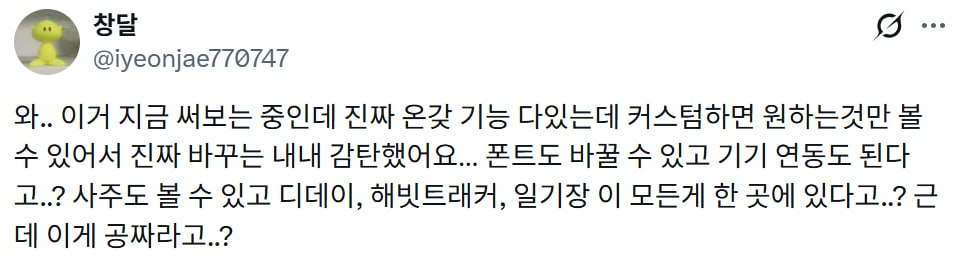
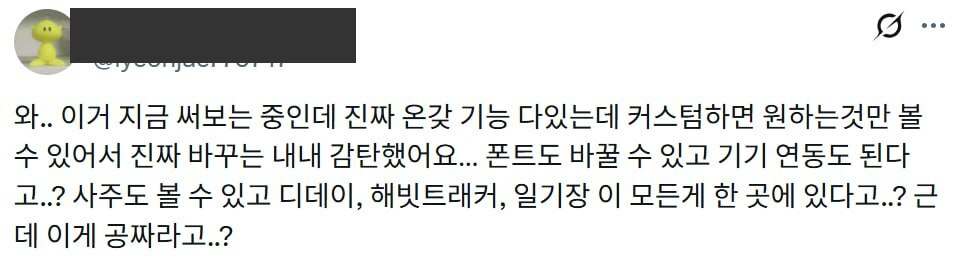
사용자 후기 이미지 닉네임·아이디 영역 이미지 자체 마스킹 (magick draw rectangle) — CSS overlay 잘못된 위치 문제 해결, 이제 영구 마스킹. case03 행동 셀 가설 단락 ↔ ol 사이 margin-top 14px 추가해 시각 간격 살짝 ↑

Changed region(s): [[0.0607, 0.03, 0.3948, 0.2397]]

diff --git a/index.html b/index.html
@@ -3898,7 +3898,7 @@
           <h4>행동</h4>
           <div class="body">
             <p>일반 투두 앱은 경쟁사가 많다.<br><em>플랫폼 특성에 맞는 니치 타겟과 컨셉</em> 으로 공략 — 트위터에서 반응도 높은 <em>ADHD 여성층</em> 대상으로 차별화.</p>
-            <ol>
+            <ol style="margin-top: 14px;">
               <li><em>공개 개발</em> — 매일 개발 진행을 트위터에 공유, 사용자 반응이 곧 마케팅 + 기능 가설 검증.</li>
               <li><em>커뮤니티화</em> — 도구는 1회용이지만 <em>커뮤니티는 자산화</em> 된다는 판단으로 단순 투두를 지속 가능한 커뮤니티로 전환.</li>
               <li><em>데이터 기반 잔존율 개선</em> — 자체 분석 패널로 떨어지는 지점 발견 즉시 패치 + 같은 날 재배포.</li>
@@ -4201,13 +4201,11 @@
         <div style="margin-top: 32px;">
           <div style="font-size: 13px; font-weight: 700; color: #c0392b; letter-spacing: 0.06em; margin-bottom: 14px; text-align: center;">→ 사용자 후기 · 익명 처리</div>
           <div style="display: grid; grid-template-columns: 1fr 1fr; gap: 20px;">
-            <div style="position: relative; max-width: 100%;">
+            <div>
               <img src="case03-testimonial-1.jpg" alt="사용자 후기 1 — 자만추한 사이트, 내가 찾던 거 다 있어서 놀람" loading="lazy" style="width: 100%; border-radius: 8px; border: 1px solid #eee; display: block;">
-              <div style="position: absolute; top: 5%; left: 14%; width: 38%; height: 26%; background: #333; border-radius: 4px;"></div>
             </div>
-            <div style="position: relative; max-width: 100%;">
+            <div>
               <img src="case03-testimonial-2.jpg" alt="사용자 후기 2 — 진짜 온갖 기능 다있는데 커스텀하면 원하는것만 볼 수 있어서 감탄" loading="lazy" style="width: 100%; border-radius: 8px; border: 1px solid #eee; display: block;">
-              <div style="position: absolute; top: 4%; left: 6%; width: 30%; height: 24%; background: #333; border-radius: 4px;"></div>
             </div>
           </div>
           <div style="font-size: 11px; color: #888; margin-top: 10px; text-align: center;">트위터 사용자 후기 2건 · 닉네임 · 아이디는 익명 처리</div>